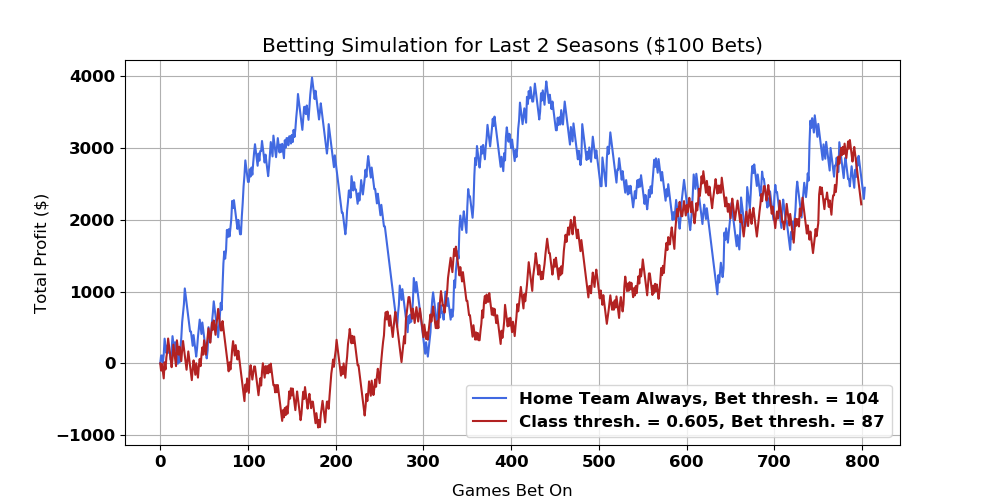
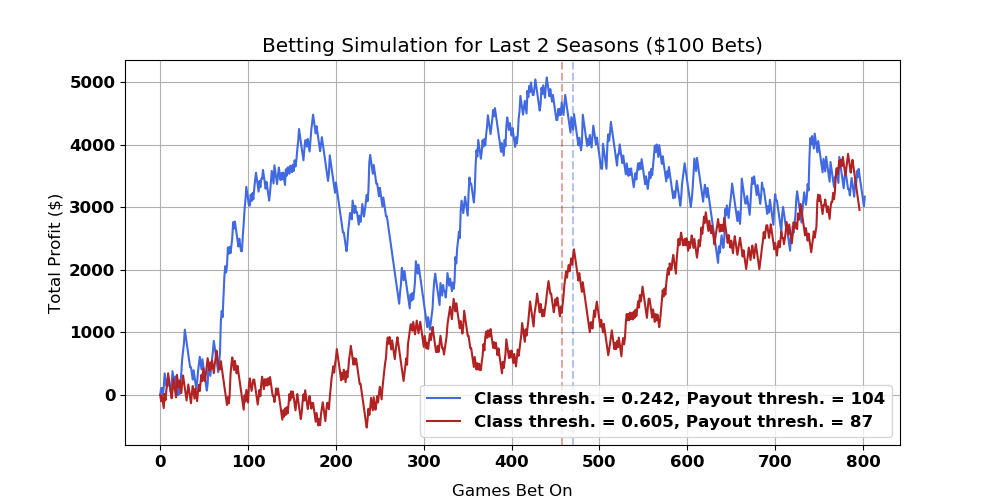
Updated Betting Sim Script and Image

diff --git a/src/BettingSim.py b/src/BettingSim.py
@@ -37,7 +37,9 @@ def run_sim(class_threshold, betting_threshold):
         1-D numpy array containing and index of games 0 - N
     cum_profit : List of length N
         List containing the cumulative profit for the simulation over the two 
-        seasons 
+        seasons
+    num_2018 : Integer 
+        Number of games bet on in 2018 season.
     '''
     sim = predict_df.copy()
     sim['sim predict H>A'] = sim['sim predict proba H>A'].apply(lambda x: 1 if x > class_threshold else 0)
@@ -58,7 +60,8 @@ def run_sim(class_threshold, betting_threshold):
         total_profit += profit
         cum_profit.append(total_profit)
     games = np.arange(len(cum_profit))
-    return games, cum_profit
+    num_2018 = (result.season==2018).sum()
+    return games, cum_profit, num_2018
 
 
 # Importing data from CSV, declaring features and target
@@ -103,15 +106,17 @@ predict_df['sim predict proba H>A'] = predict_proba
 
 
 # Getting results of the simulation and plotting them
-games1, cum_profit1 = run_sim(0.242, 104)
-games2, cum_profit2 = run_sim(0.605, 87)
+games1, cum_profit1, num_2018_1 = run_sim(0.242, 104)
+games2, cum_profit2, num_2018_2 = run_sim(0.605, 87)
 fig, ax = plt.subplots(figsize=(10,5))
-ax.plot(games1, cum_profit1, color='royalblue', label='Home Team Always, Bet thresh. = 104')
-ax.plot(games2, cum_profit2, color='firebrick', label='Class thresh. = 0.605, Bet thresh. = 87')
+ax.axvline(games1[num_2018_1], color='royalblue', alpha=0.4, ls='--')
+ax.axvline(games2[num_2018_2], color='firebrick', alpha=0.4, ls='--')
+ax.plot(games1, cum_profit1, color='royalblue', label='Class thresh. = 0.242, Payout thresh. = 104')
+ax.plot(games2, cum_profit2, color='firebrick', label='Class thresh. = 0.605, Payout thresh. = 87')
 ax.set_xlabel('Games Bet On', labelpad=10)
 ax.set_ylabel('Total Profit ($)')
 ax.grid()
-ax.legend(loc='lower_right')
+ax.legend(loc='lower right')
 ax.set_title('Betting Simulation for Last 2 Seasons ($100 Bets)')
 plt.savefig('images/BettingSim.png')
 plt.show()
